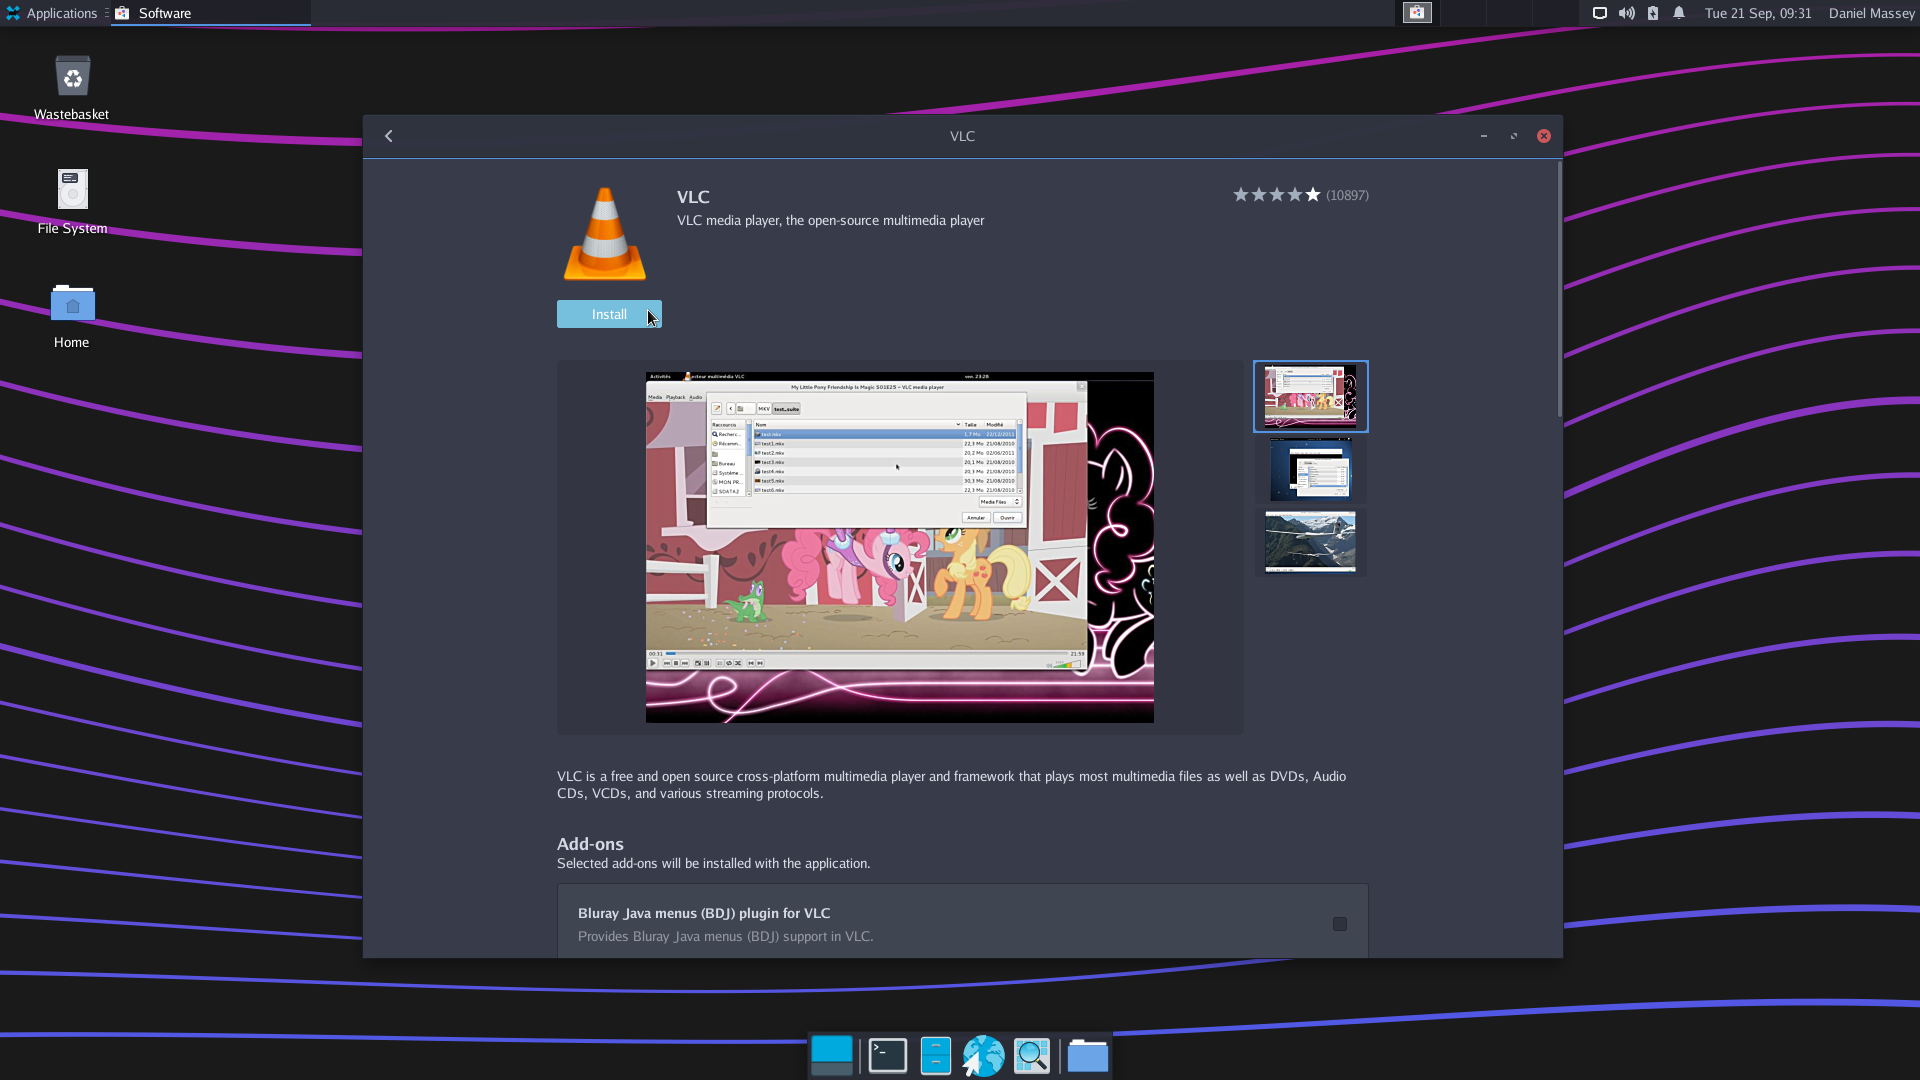
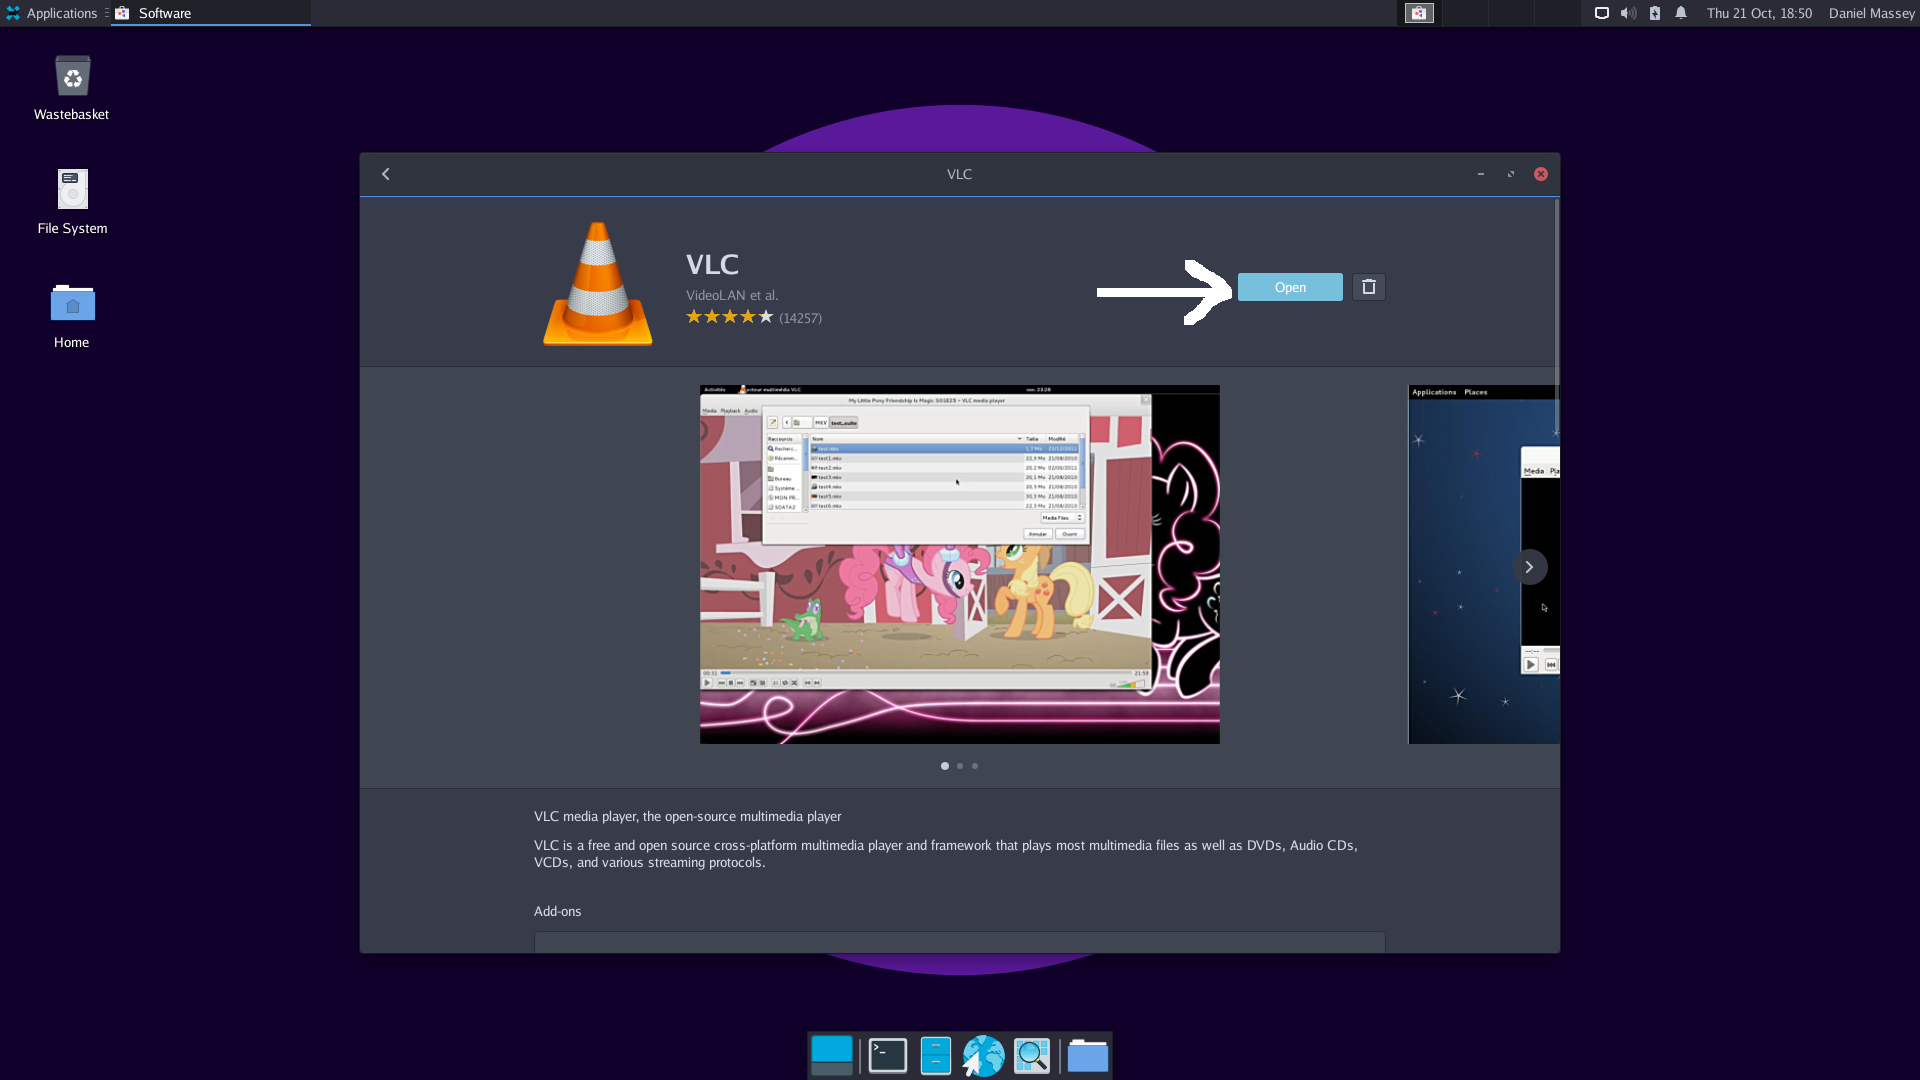
Update screenshots

diff --git a/postinst.md b/postinst.md
@@ -11,10 +11,8 @@ Once opened, the front page of the store contains some recommended apps. You can
 ![](software2.png)
 For example: To install VLC Media Player, we will search for "vlc":
 ![](software3.png)
-Then click "Install" and wait patiently.
+Now click "Install" and wait patiently. When the app is installed, it will be available from your apps list. You can also launch it by clicking the "Launch" button in the software center.
 ![](software4.png)
-When the app is installed, it will be available from your apps list. You can also launch it by clicking the "Launch" button in the software center.
-![](software5.png)
 ## Installing Flatpak software from the command-line
 Press Control+Alt+T to open the terminal, or find the terminal in your apps list.
 
